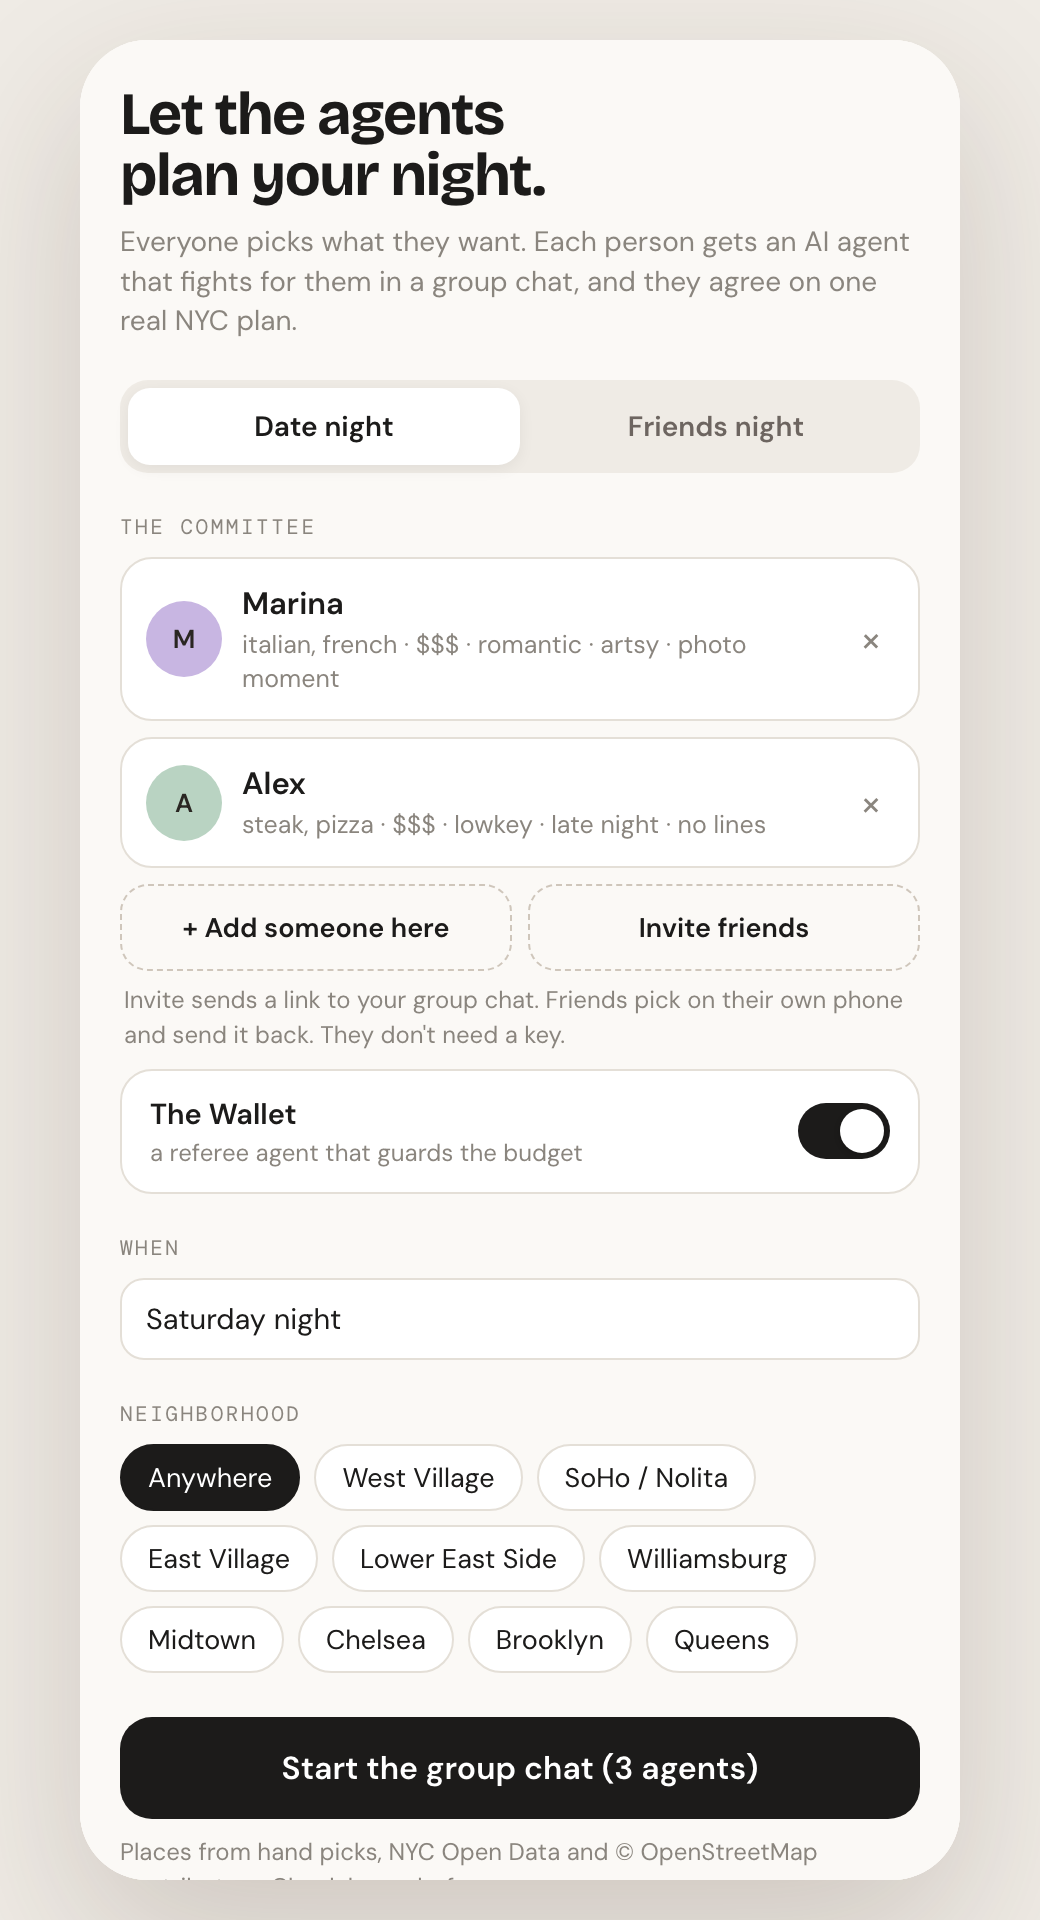
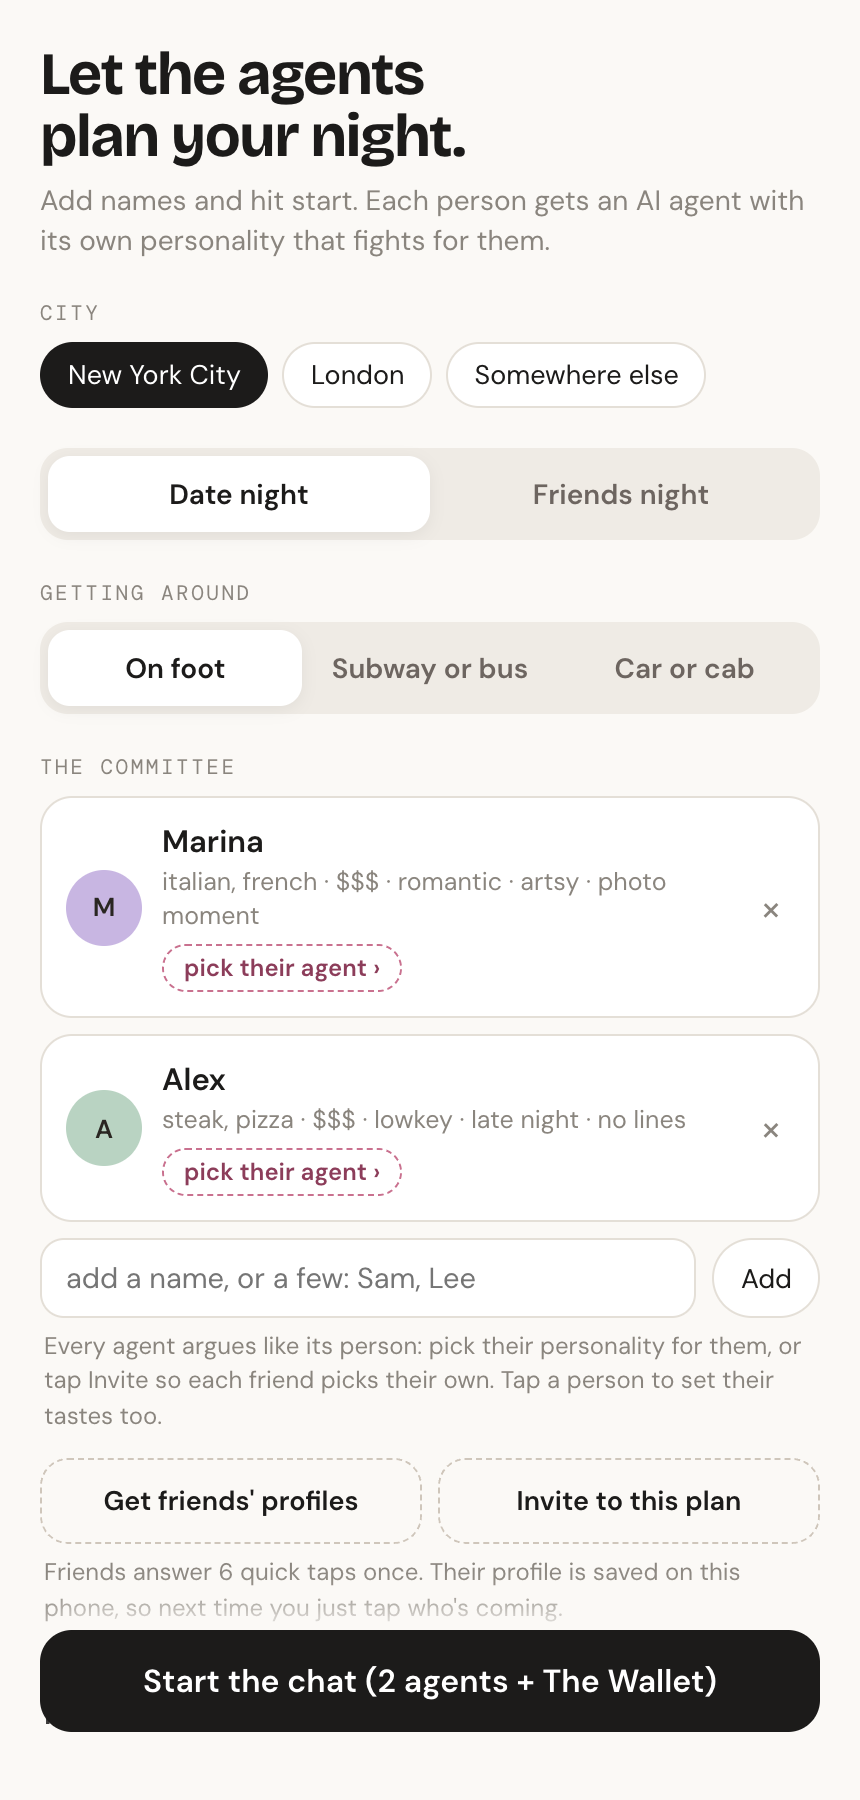
README: current numbers, travel and open hours features, new screenshots, demo GIF and link preview

diff --git a/README.md b/README.md
@@ -1,10 +1,10 @@
-<p align="center"><img src="og.png" alt="The Plan Committee: AI agents argue in a group chat and agree on one NYC plan" width="720"></p>
+<p align="center"><img src="og.png" alt="The Plan Committee: AI agents argue in a group chat and agree on one real plan" width="720"></p>
 
 <h1 align="center">The Plan Committee</h1>
 
 <p align="center">
   Everyone picks what they want. Each person gets an AI agent that fights for them in a group chat.<br>
-  They agree on one real NYC plan: dinner, drinks, something after.
+  They agree on one real plan in New York, London or almost any city: dinner, drinks, something after.
 </p>
 
 <p align="center">
@@ -20,18 +20,25 @@
 
 ## What it does
 
-<img src="docs/setup.png" alt="Setup screen" width="300" align="right">
+<img src="docs/demo.gif" alt="The demo: agents argue in a group chat, then the plan ticket appears" width="300" align="right">
 
 * **Date night or friends night.** Add your people, or send an invite link to the group chat so everyone picks on their own phone. Friends never need a key or an account.
 * **Your people, saved.** Send friends a profile link: 6 quick taps and their taste and agent personality are saved on your phone. Next time you just tap who's coming.
 * **Agents with personalities.** Dramatic, stubborn, chill, the mediator, chaotic. An optional Wallet agent guards the budget.
-* **Any city.** Pick "Somewhere else" and type any city. Over 650 cities load instantly from open place lists built every month from [Overture Maps](https://overturemaps.org), and anywhere else comes live from OpenStreetMap. New York and London also have curated packs refreshed daily, and adding yours is one command and one pull request ([how](CONTRIBUTING.md)).
-* **Real places only.** 153 hand picked spots (125 in New York, 28 in London), plus 1,325 more tagged from NYC Open Data and OpenStreetMap, refreshed every day. Closed restaurants drop out on their own.
-* **A plan you can use.** Map, website, reserve (straight to Resy or OpenTable when we know the page), add to calendar, share the whole argument as a replay link.
+* **Any city.** Pick "Somewhere else" and type any city. 475 cities load instantly from open place lists built every month from [Overture Maps](https://overturemaps.org), and anywhere else comes live from OpenStreetMap. New York and London also have curated packs refreshed daily, and adding yours is one command and one pull request ([how](CONTRIBUTING.md)).
+* **Real places only.** 153 hand picked spots (125 in New York, 28 in London), plus 4,219 more tagged from NYC Open Data and OpenStreetMap, refreshed every day. Closed restaurants drop out on their own.
+* **A night that works.** Stops stay close together for how you get around (on foot, transit or car), and every stop is checked to be open at its time. Museums and theatres with unknown hours never show up late at night.
+* **A plan you can use.** Map, website, reserve (straight to Resy or OpenTable when we know the page), a route in your travel mode, add to calendar, share the whole argument as a replay link.
 * **Your AI, your key.** Bring a free Gemini, Groq or OpenRouter key, or point it at any OpenAI compatible API. The key stays in your browser and is sent only to the provider you chose.
 * **Installable.** Add it to your home screen and it opens like an app.
 
 <br clear="right">
+
+<p align="center">
+  <img src="docs/setup.png" alt="Setup: city, date or friends night, getting around, the committee" width="260">
+  <img src="docs/chat.png" alt="The agents arguing in the group chat" width="260">
+  <img src="docs/plan.png" alt="The final plan: three stops with walking times, map, reserve and route" width="260">
+</p>
 
 ## Why I built it
 
@@ -39,9 +46,10 @@ Picking a place for six people takes longer than the dinner itself. I wanted to 
 
 ## By the numbers
 
-* 2 cities: New York and London ([`cities/index.json`](cities/index.json)).
+* 2 curated cities: New York and London ([`cities/index.json`](cities/index.json)).
+* 475 more cities ready to plan from the monthly Overture build, out of 651 on the list ([`places/cities.json`](places/cities.json)). The other 176 have under 40 places and use OpenStreetMap live.
 * 153 hand picked spots: 125 in New York, 28 in London (`picks` in [`cities/*/city.json`](cities)).
-* 1,325 more spots tagged by the pipeline: 513 in New York, 812 in London ([`cities/*/spots.json`](cities), built 2026-10-28).
+* 4,219 more spots tagged by the pipeline: 1,839 in New York, 2,380 in London ([`cities/*/spots.json`](cities), built 2026-11-10).
 * 3 open data sources: NYC Open Data, OpenStreetMap and Overture Maps. No scraping.
 * 0 packages in the app and the daily pipeline (Python standard library only). The monthly Overture build uses DuckDB, pinned by hash in its Action.
 * 0 build steps: `index.html` is served as is.
@@ -69,7 +77,10 @@ city.json + spots.json
   makePlan()       one more AI call turns the chat into JSON: title, 3 stops, verdict
         |
         v
-  findSpot()       every stop must match a place on the shortlist, or it is dropped
+  findSpot()       every stop must match a real place, or it is dropped
+        |
+        v
+  tighten()        swaps any stop that is too far for how you get around, or may be closed then
         |
         v
   renderTicket()   map, reserve, calendar and a share link, every string escaped before it hits the page
